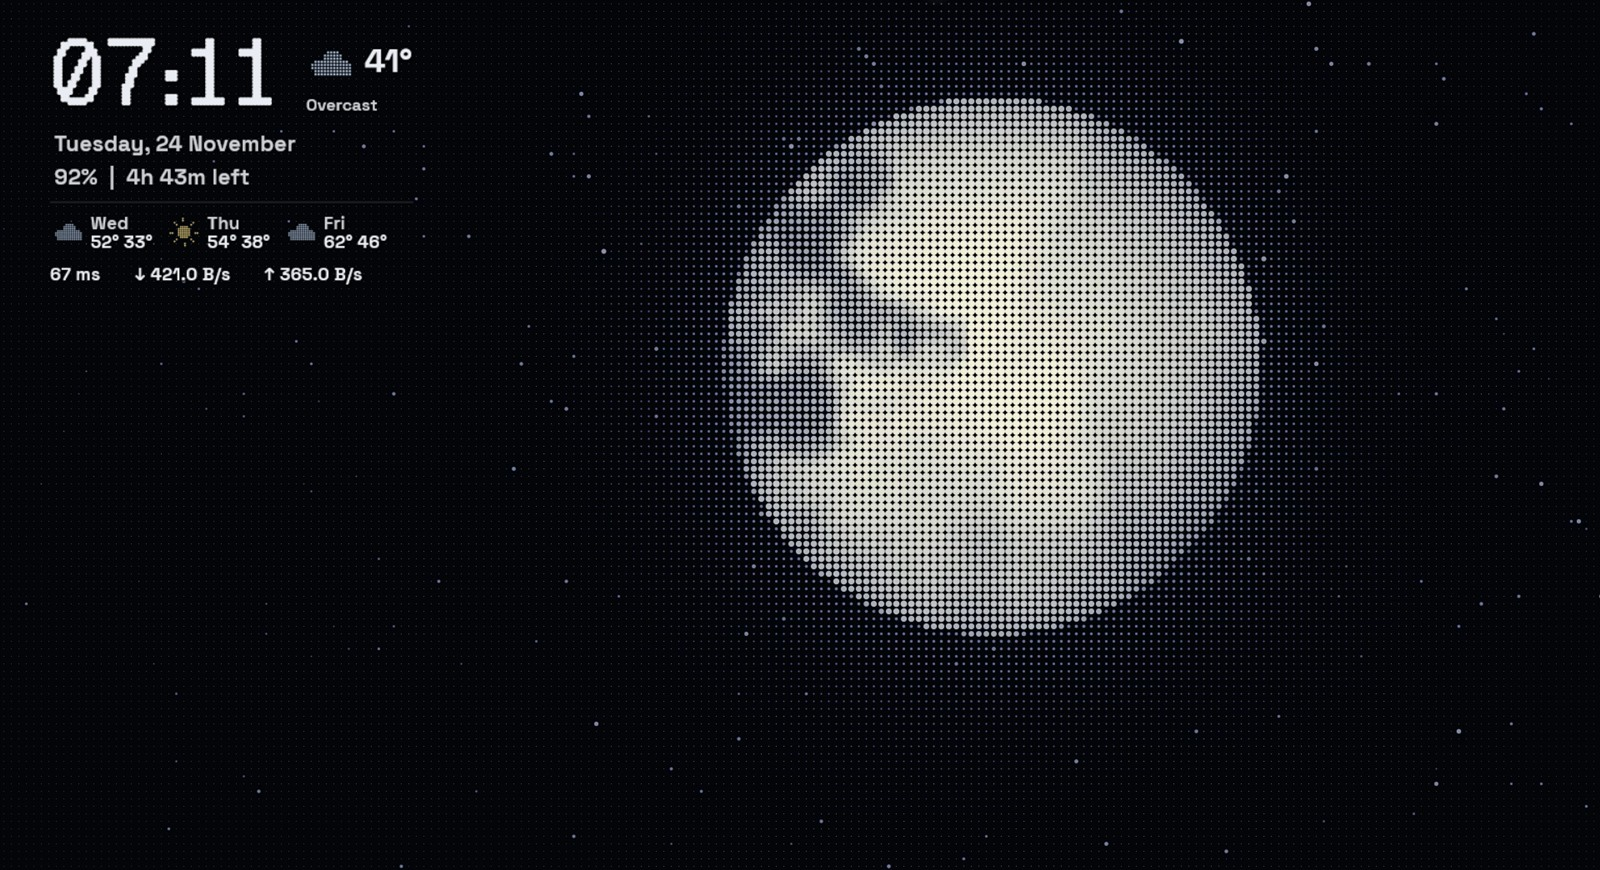
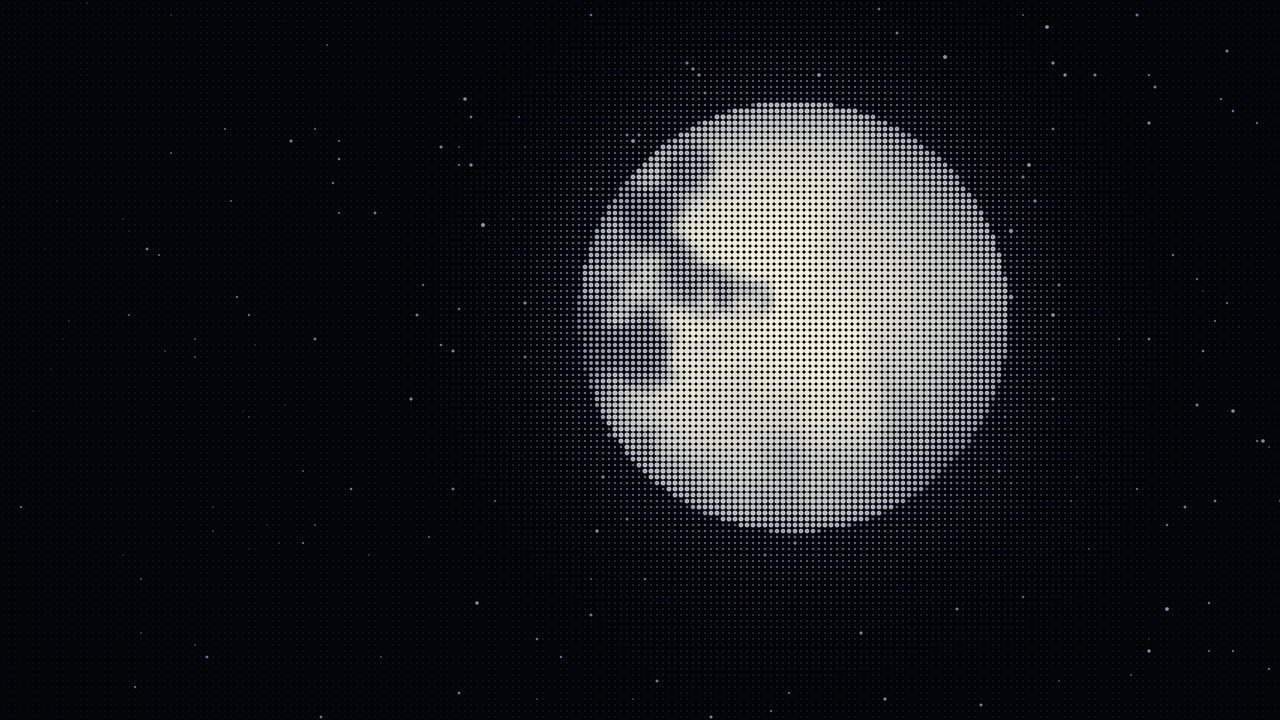
Show every wallpaper style without widgets in the README
Replace the style screenshots with the official stills from the
styles-v1 release (checksum matches installer/styles-SHA256SUMS.txt),
so the gallery shows only the wallpapers. Add the styles that had no
picture, split them into day and night tables, and drop the combined
gallery image, which repeated the tables.

Claude-Session: https://claude.ai/code/session_0123xK2JZ4vuM8CzYrRvCx6L

diff --git a/README.md b/README.md
@@ -32,16 +32,28 @@ Each style is a 1080p video that loops without a visible jump.
 
 *The shore loop (40 seconds, shown here at 5× speed).*
 
-![All styles](screenshots/gallery.jpg)
+### Day styles
 
 | | | |
 |---|---|---|
-| ![Pixel clouds](screenshots/pixelclouds.jpg) **Pixel clouds** | ![Shore](screenshots/shore.jpg) **Shore** | ![Sunset strata](screenshots/sunset.jpg) **Sunset strata** |
-| ![Blue sky](screenshots/bluesky.jpg) **Blue sky** | ![Halftone](screenshots/halftone.jpg) **Halftone** | ![Aurora](screenshots/aurora.jpg) **Aurora** |
-| ![Nebula](screenshots/nebula.jpg) **Nebula** | ![Halftone moon](screenshots/moon.jpg) **Halftone moon** | ![Riso waves](screenshots/riso.jpg) **Riso waves** |
+| ![Spectrum](screenshots/spectrum.jpg) **Spectrum** | ![Halftone](screenshots/halftone.jpg) **Halftone** | ![Blue sky](screenshots/bluesky.jpg) **Blue sky** |
+| ![Pixel clouds](screenshots/pixelclouds.jpg) **Pixel clouds** | ![Sunset strata](screenshots/sunset.jpg) **Sunset strata** | ![Riso waves](screenshots/riso.jpg) **Riso waves** |
+| ![Dunes](screenshots/dunes.jpg) **Dunes** | ![Lake](screenshots/lake.jpg) **Lake** | ![Pastel aurora](screenshots/pastel.jpg) **Pastel aurora** |
+| ![CRT test card](screenshots/crt.jpg) **CRT test card** | ![Shore](screenshots/shore.jpg) **Shore** |  |
 
-Day styles: Spectrum, Halftone, Blue sky, Pixel clouds, Sunset strata, Riso waves, Dunes, Lake, Pastel aurora, CRT test card, Shore and Gradient.
-Night styles: Night clouds, Aurora, Nebula, Halftone moon, Embers, Deep sea, Rainy window and Bouncing logo.
+Gradient is also a day style.
+
+### Night styles
+
+Dark styles rotate in at night.
+
+| | | |
+|---|---|---|
+| ![Night clouds](screenshots/nightclouds.jpg) **Night clouds** | ![Aurora](screenshots/aurora.jpg) **Aurora** | ![Nebula](screenshots/nebula.jpg) **Nebula** |
+| ![Halftone moon](screenshots/moon.jpg) **Halftone moon** | ![Embers](screenshots/embers.jpg) **Embers** | ![Deep sea](screenshots/deepsea.jpg) **Deep sea** |
+| ![Rainy window](screenshots/rain.jpg) **Rainy window** |  |  |
+
+Bouncing logo is also a night style.
 
 ## Widgets
 
